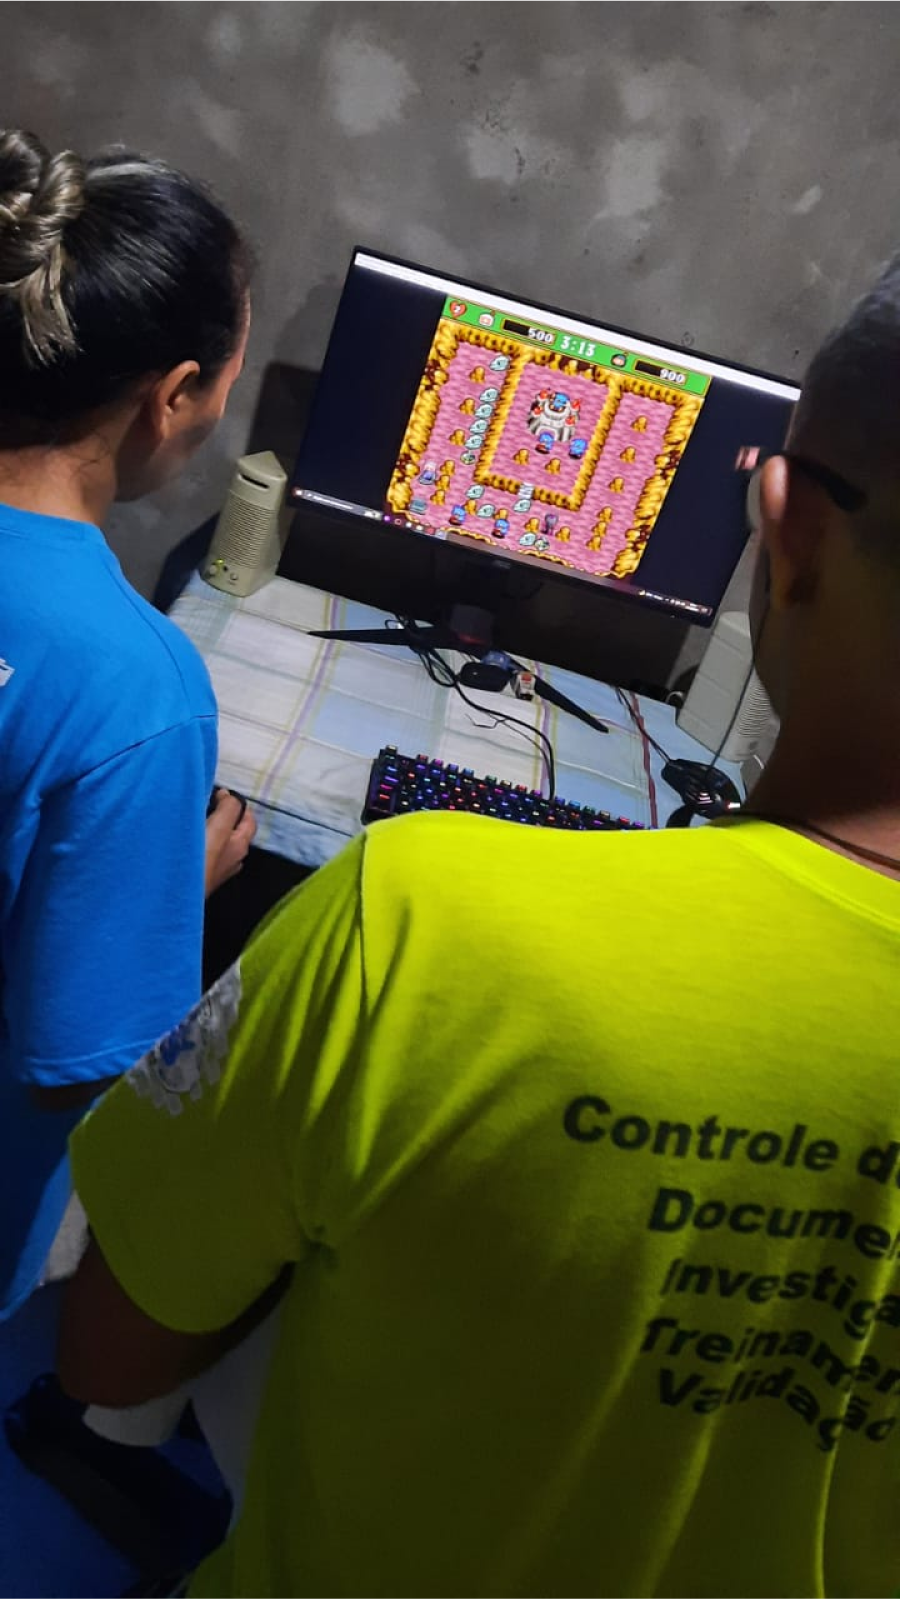
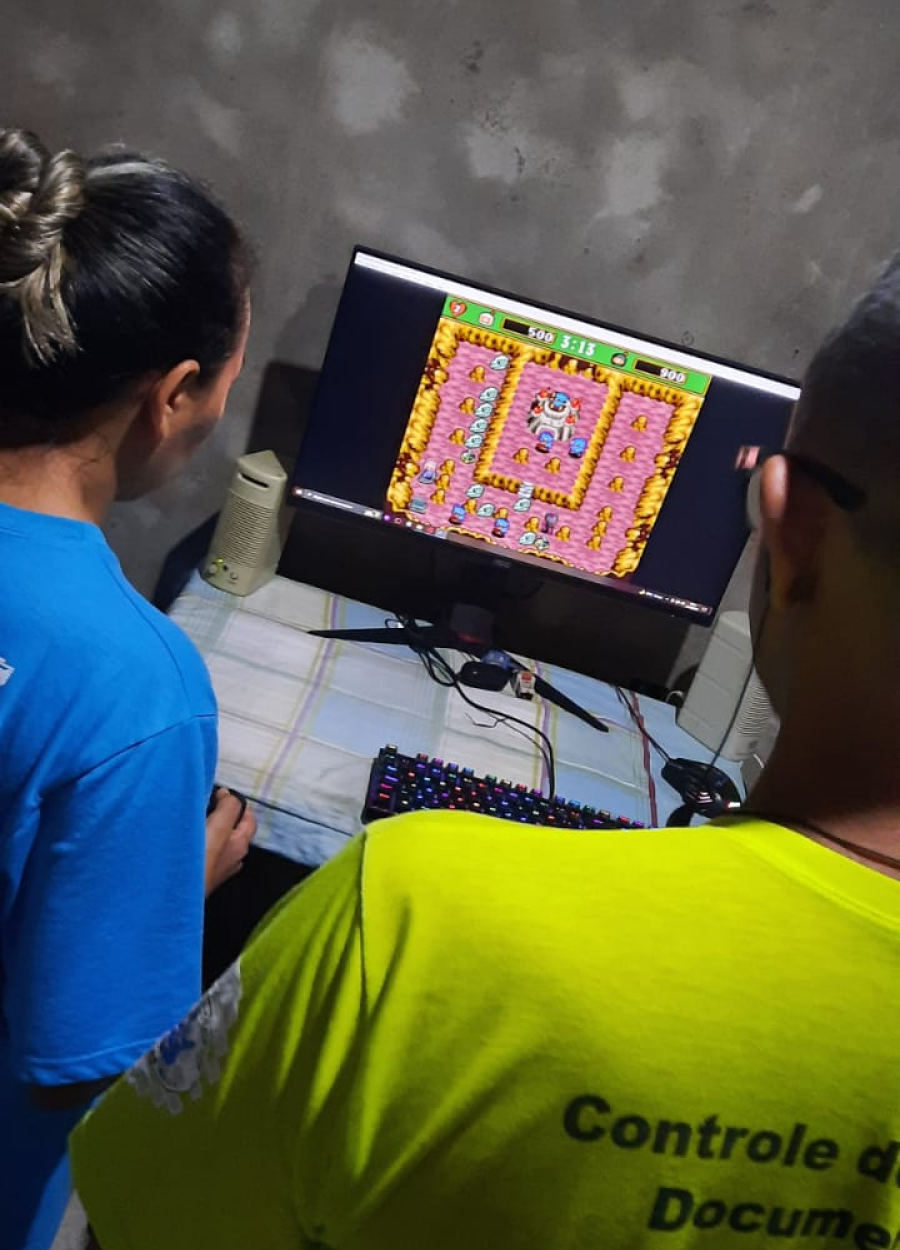
fix in images horizontal

diff --git a/src/defaults/hobbies.ts b/src/defaults/hobbies.ts
@@ -16,9 +16,26 @@ const hobbiesDefault: HobbyDefault[] = [
         ? "video"
         : "image"
       const extension = variant === "image" ? ".png" : ".mp4"
-      const direction = ["04", "06", "09", "16", "18", "23", "25"].includes(
-        imageIndex
-      )
+      const direction = [
+        "01",
+        "04",
+        "06",
+        "07",
+        "09",
+        "13",
+        "16",
+        "17",
+        "19",
+        "18",
+        "23",
+        "25",
+        "29",
+        "35",
+        "36",
+        "37",
+        "41",
+        "42",
+      ].includes(imageIndex)
         ? "vertical"
         : "horizontal"
 
@@ -43,9 +60,17 @@ const hobbiesDefault: HobbyDefault[] = [
         ? "video"
         : "image"
       const extension = variant === "image" ? ".png" : ".mp4"
-      const direction = ["04", "06", "11", "13", "19", "24", "26"].includes(
-        imageIndex
-      )
+      const direction = [
+        "04",
+        "06",
+        "10",
+        "11",
+        "13",
+        "19",
+        "21",
+        "24",
+        "26",
+      ].includes(imageIndex)
         ? "vertical"
         : "horizontal"
 

diff --git a/src/components/Gallery.tsx b/src/components/Gallery.tsx
@@ -85,7 +85,7 @@ export function Gallery({
         <Dialog.Content
           className={twMerge(
             "aspect-video fixed top-1/2 left-1/2 -translate-x-1/2 -translate-y-1/2",
-            "data-[state=open]:animate-show-dialog data-[state=closed]:animate-hide-dialog",
+            "data-[state=open]:animate-show-dialog data-[state=closed]:animate-hide-dialog border",
             {
               "w-fit": gallery.variant === "image",
               "w-[900px]":
@@ -100,7 +100,7 @@ export function Gallery({
             <Image
               src={gallery.src}
               alt="NBA"
-              width={gallery.direction === "horizontal" ? 900 : 400}
+              width={gallery.direction === "horizontal" ? 900 : 550}
               height={600}
             />
           ) : (
